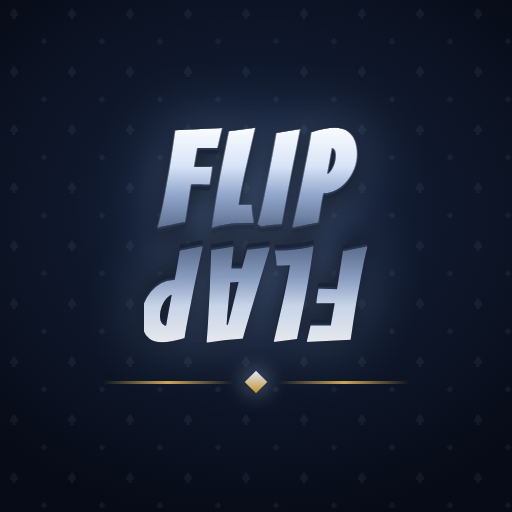
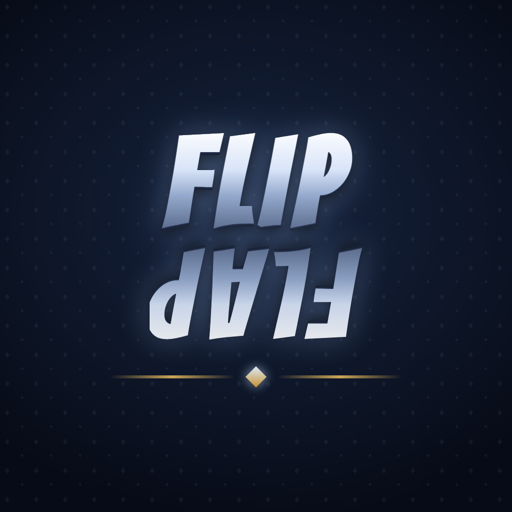
아이콘 — 앱 안에 구워진 것들도 갈았다
지난번엔 웹 아이콘(public/icon-*.png)만 바꿨다. 앱에 구워 넣는 아이콘은
따로 있고 그건 옛 금색 그대로였다 — 그래서 폰에서는 하나도 안 바뀌었다.

이번에 간 것(android-build·store-assets 는 .gitignore 라 이 커밋엔 안 들어간다)
· 런처 아이콘 ic_launcher 다섯 크기 (48~192)
· 적응형 아이콘 앞면 ic_maskable 다섯 크기 (82~328)
· 스플래시 다섯 크기 (300~1200)
· 스토어 아이콘 512 · 플레이 512 · 앱스토어 1024 · 제출용 512

적응형 아이콘은 안전 영역이 웹 마스커블보다 좁다 — 91dp 중 안쪽 72dp 라
그림 폭의 79% 원이다. 그 기준으로 다시 재서 모서리 389(한계 404)로 맞췄고,
원 밖 밝은 픽셀이 0 인 것을 직접 세어 확인했다. 웹 마스커블도 같은 그림으로
맞췄으므로 주소를 ?v=3 으로 올렸다(서비스워커 ff-v15).

곁들여 적응형 아이콘 뒷장이 흰색이었다. 어두운 아이콘 둘레에 흰 테가
남을 자리라 로비 바탕색(#070b17)으로 바꿨다.

64개 묶음 전부 통과.

diff --git a/public/sw.js b/public/sw.js
@@ -2,7 +2,7 @@
 // 전략: 네트워크 우선(배포 즉시 반영), 실패 시 캐시 폴백. 소켓/API는 건드리지 않음.
 // 판을 올리면 옛 캐시를 버린다. 안 올리면 깨어나는 동안 그물이 끊겨
 // 캐시로 물러난 사람이 옛 화면을 계속 보게 된다.
-const VER = 'ff-v14';
+const VER = 'ff-v15';
 // 그물이 아예 없는 채로 앱을 켜도 판이 열려야 한다. 그러려면 판을 굴리는 데
 // 필요한 것이 미리 담겨 있어야 한다 — 한 번이라도 온라인으로 열어 본 뒤부터다.
 // socket.io 가 빠지면 client.js 첫 줄에서 io 를 못 찾아 화면이 통째로 죽는다.
